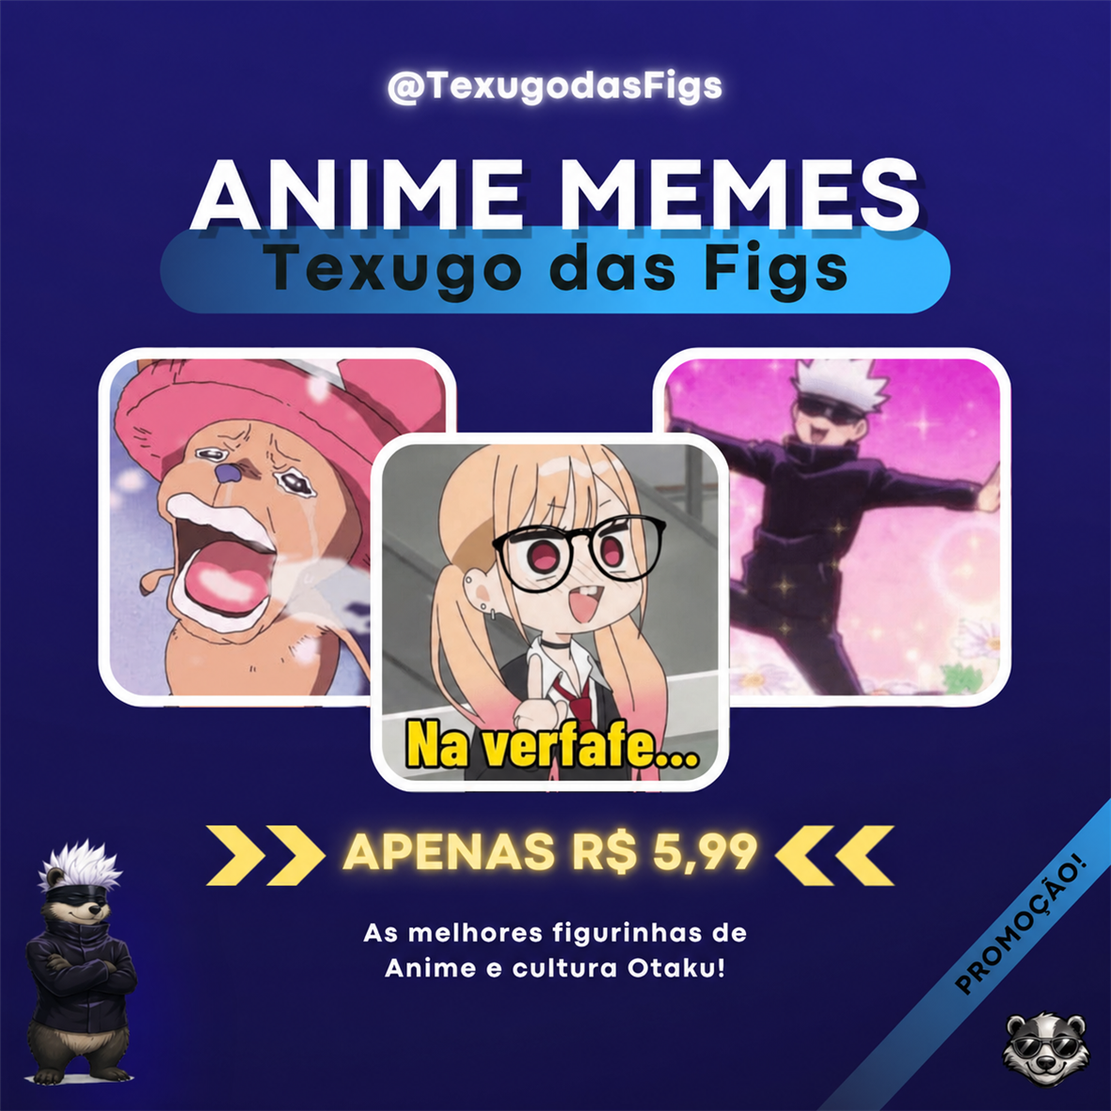
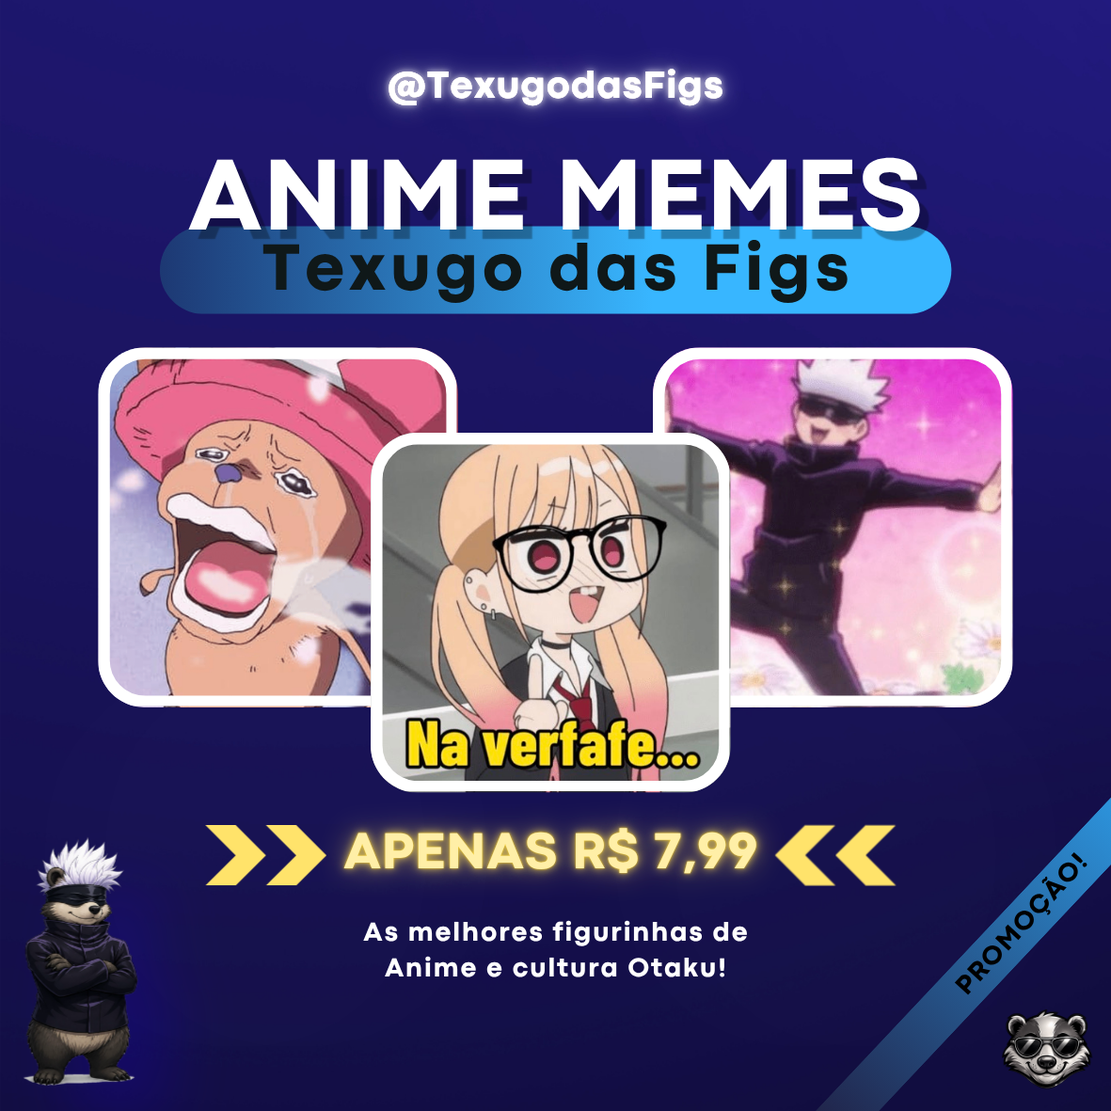
Atualiza preços, capas e quantidades dos packs

diff --git a/data.js b/data.js
@@ -9,41 +9,41 @@ window.STORE = {
     whatsapp: "https://wa.me/5588992367356?text=Ol%C3%A1%2C%20Texugo%20das%20Figs!%20Queria%20saber%20mais%20sobre%20os%20seus%20packs."
   },
   packs: [
-    {id:"premium",title:"Premium Pack",category:"premium",price:11.99,count:"Todos os packs",image:"assets/packs/03-premium.png",color:"#d5ac2e",description:"Um único pagamento que dá direito a escolher todos os packs que quiser da loja — inclusive os temas mais nichados.",longDescription:"Com o Premium Pack, você não precisa escolher apenas um tema: pelo valor único do Premium, você tem direito a solicitar todos os packs que quiser disponíveis no site. Depois do pagamento, use o botão de atendimento para abrir a conversa no WhatsApp. Você monta sua coleção com humor, reações, futebol, anime, trabalho, fandoms e outros nichos sem pagar separadamente por cada pack.",previews:["assets/previas/respostas/respostas-06.mp4","assets/previas/safadezas/safadezas-01.mp4","assets/previas/anime/anime-02.mp4","assets/previas/league-of-legends/lol-05.jpeg","assets/previas/futebol/futebol-03.jpeg"],payment:"https://mpago.la/1up4NMd"},
-    {id:"respostas",title:"Respostas e Reações",category:"humor",price:5.99,count:"+ de 60",image:"assets/packs/01-respostas.png",color:"#2bbd6e",description:"Respostas secas, reações certeiras e memes para encerrar qualquer assunto com personalidade.",longDescription:"O carro-chefe do Texugo das Figs. Uma seleção variada de respostas secas, reações engraçadas e memes para aquela mensagem que você sabe exatamente como responder, mas prefere deixar uma figurinha falar por você. Inclui opções estáticas e animadas para todos os tipos de conversa.",featuredPreview:"assets/previas/respostas/respostas-06.mp4",previews:["assets/previas/respostas/respostas-01.mp4","assets/previas/respostas/respostas-02.mp4","assets/previas/respostas/respostas-03.jpeg","assets/previas/respostas/respostas-04.jpeg","assets/previas/respostas/respostas-05.jpeg"],payment:"https://mpago.la/22gk3Nq"},
-    {id:"safadezas",title:"Safadezas",category:"humor",price:5.99,count:"+ de 60",image:"assets/packs/04-safadezas.png",mascot:"assets/emotes/safadezas-canva.png",mascotMode:"canva",color:"#8134d7",description:"Humor picante e figurinhas ousadas para conversas com intimidade e bom humor.",longDescription:"Um pack de teor mais ousado, feito para conversas adultas e bem-humoradas. Reúne cantadas picantes, respostas atrevidas e reações para apimentar o papo. Use com intimidade, responsabilidade e, claro, muita zoeira.",featuredPreview:"assets/previas/safadezas/safadezas-01.mp4",previews:["assets/previas/safadezas/safadezas-01.mp4","assets/previas/safadezas/safadezas-02.mp4","assets/previas/safadezas/safadezas-03.jpeg","assets/previas/safadezas/safadezas-04.jpeg","assets/previas/safadezas/safadezas-05.jpeg"],payment:"https://mpago.la/1XbjVzy"},
-    {id:"trabalho",title:"Trabalho",category:"lifestyle",price:5.99,count:"+ de 60",image:"assets/packs/07-trabalho.png",mascot:"assets/emotes/trabalho.jpeg",color:"#329dd5",description:"The Office, CLT e aquela dose de humor necessária para sobreviver ao expediente.",longDescription:"Feito para o grupo da firma e para quem vive a rotina CLT. Tem memes de The Office, reuniões que poderiam ser um e-mail, cobranças, atrasos e todas as pequenas alegrias e tragédias do expediente. Perfeito para reagir sem precisar escrever um relatório.",featuredPreview:"assets/previas/trabalho/trabalho-01.mp4",previews:["assets/previas/trabalho/trabalho-01.mp4","assets/previas/trabalho/trabalho-02.mp4","assets/previas/trabalho/trabalho-03.mp4","assets/previas/trabalho/trabalho-04.jpeg","assets/previas/trabalho/trabalho-05.jpeg"],payment:"https://mpago.la/1PAKBbJ"},
-    {id:"eleicoes",title:"Eleições Memes",category:"humor",price:4.99,count:"+ de 60",image:"assets/packs/10-eleicoes.png",mascot:"assets/emotes/eleicoes.jpeg",color:"#dc413e",description:"Memes de política de todos os lados para animar o grupo da família.",longDescription:"Uma coleção de memes políticos para brincar com os acontecimentos, os candidatos e as discussões que nunca acabam no grupo da família. O humor não escolhe lado: o objetivo aqui é ter a reação perfeita e render boas risadas.",featuredPreview:"assets/previas/eleicoes/eleicoes-02.mp4",previews:["assets/previas/eleicoes/eleicoes-01.mp4","assets/previas/eleicoes/eleicoes-02.mp4","assets/previas/eleicoes/eleicoes-03.jpeg","assets/previas/eleicoes/eleicoes-04.jpeg","assets/previas/eleicoes/eleicoes-05.jpeg"],payment:"https://mpago.la/17YhUo3"},
-    {id:"kpop",title:"K-Pop Memes",category:"fandoms",price:5.99,count:"+ de 60",image:"assets/packs/05-kpop.png",mascot:"assets/emotes/kpop.jpeg",color:"#a874dc",description:"Reações e memes do universo K-Pop para mandar no grupo do fandom.",longDescription:"Um pack feito para quem vive cada comeback, acompanha seus idols favoritos e sempre tem uma reação pronta no grupo do fandom. Reúne memes, expressões e momentos perfeitos para comemorar, surtar e compartilhar seu amor pelo K-Pop.",featuredPreview:"assets/previas/kpop/kpop-01.mp4",previews:["assets/previas/kpop/kpop-01.mp4","assets/previas/kpop/kpop-02.mp4","assets/previas/kpop/kpop-03.jpeg","assets/previas/kpop/kpop-04.jpeg","assets/previas/kpop/kpop-05.jpeg"],payment:"https://mpago.la/2EtabLW"},
-    {id:"futebol",title:"Futebol Memes",category:"esportes",price:5.99,count:"+ de 60",image:"assets/packs/11-futebol.png",mascot:"assets/emotes/futebol-canva.png",mascotMode:"canva",color:"#24b663",description:"As melhores reações para resenha, pelada, vitória, derrota e corneta.",longDescription:"Para o grupo da pelada e para os amigos que não perdoam um resultado ruim. Este pack reúne memes de futebol, jogadores, torcidas e aquelas reações que servem tanto para comemorar uma vitória quanto para cornetar o rival.",featuredPreview:"assets/previas/futebol/futebol-03.jpeg",previews:["assets/previas/futebol/futebol-01.mp4","assets/previas/futebol/futebol-02.mp4","assets/previas/futebol/futebol-03.jpeg","assets/previas/futebol/futebol-04.jpeg","assets/previas/futebol/futebol-05.jpeg"],payment:"https://mpago.la/1wGmW4U"},
-    {id:"divas-pop",title:"Divas Pop",category:"fandoms",price:5.99,count:"+ de 60",image:"assets/packs/06-divas-pop.png",mascot:"assets/emotes/divas-pop.jpeg",color:"#d751b8",description:"Suas cantoras pop favoritas transformadas em reações para qualquer momento.",longDescription:"As maiores divas pop reunidas em um pack cheio de personalidade. São reações icônicas, momentos dramáticos, sorrisos, lágrimas e muita atitude para você usar em qualquer conversa — principalmente quando só uma diva consegue expressar o que você está sentindo.",featuredPreview:"assets/previas/divas-pop/divas-pop-05.jpeg",previews:["assets/previas/divas-pop/divas-pop-01.mp4","assets/previas/divas-pop/divas-pop-02.mp4","assets/previas/divas-pop/divas-pop-03.mp4","assets/previas/divas-pop/divas-pop-04.jpeg","assets/previas/divas-pop/divas-pop-05.jpeg"],payment:"https://mpago.la/28M7wQ9"},
-    {id:"gym",title:"Gym Memes",category:"lifestyle",price:2.50,count:"+ de 40",image:"assets/packs/02-gym.png",mascot:"assets/emotes/gym.jpeg",color:"#aeb4b3",description:"O pack para quem treina, promete treinar ou só quer rir da vida fitness.",longDescription:"Academia, musculação, dieta e a eterna luta contra a preguiça. Este pack foi feito tanto para quem não perde um treino quanto para quem só aparece na segunda-feira. Memes fitness para compartilhar com seu parceiro de treino e transformar sofrimento em risada.",featuredPreview:"assets/previas/gym/gym-04.jpeg",previews:["assets/previas/gym/gym-01.mp4","assets/previas/gym/gym-02.jpeg","assets/previas/gym/gym-03.jpeg","assets/previas/gym/gym-04.jpeg","assets/previas/gym/gym-05.jpeg"],payment:"https://mpago.la/25NzDDm"},
-    {id:"anime",title:"Anime Memes",category:"fandoms",price:5.99,count:"+ de 60",image:"assets/packs/08-anime.png",mascot:"assets/emotes/anime.jpeg",color:"#378fd4",description:"Anime, cultura otaku e reações perfeitas para o grupo dos seus nakamas.",longDescription:"Feito para compartilhar com os amigos fãs dos desenhos japoneses. O pack mistura personagens conhecidos, momentos clássicos, reações exageradas e memes da cultura otaku para usar em qualquer situação — do episódio novo à discussão sobre o melhor anime.",featuredPreview:"assets/previas/anime/anime-02.mp4",previews:["assets/previas/anime/anime-01.mp4","assets/previas/anime/anime-02.mp4","assets/previas/anime/anime-03.mp4","assets/previas/anime/anime-04.jpeg","assets/previas/anime/anime-05.jpeg"],payment:"https://mpago.la/2SEfHpp"},
-    {id:"cantadas",title:"Cantadas Enfadonhas",category:"humor",price:5.99,count:"+ de 60",image:"assets/packs/12-cantadas.png",mascot:"assets/emotes/cantadas.jpeg",color:"#e86580",description:"Cantadas ruins o bastante para funcionar — ou pelo menos render uma boa risada.",longDescription:"Figurinhas românticas de gêneros variados, misturando cantadas engraçadas, declarações exageradas e reações para quem está apaixonado. Talvez você não conquiste o crush de primeira, mas certamente vai conseguir começar uma conversa.",featuredPreview:"assets/previas/cantadas/cantadas-05.jpeg",previews:["assets/previas/cantadas/cantadas-01.mp4","assets/previas/cantadas/cantadas-02.mp4","assets/previas/cantadas/cantadas-03.jpeg","assets/previas/cantadas/cantadas-04.jpeg","assets/previas/cantadas/cantadas-05.jpeg"],payment:"https://mpago.la/1Gpmr6e"},
-    {id:"league-of-legends",title:"League of Legends",category:"games",price:5.99,count:"+ de 60",image:"assets/packs/09-lol.png",mascot:"assets/emotes/lol.jpeg",color:"#374cb7",description:"Para comemorar a vitória, lamentar o feed e reagir como um verdadeiro invocador.",longDescription:"Um pack para quem conhece a alegria de uma vitória e a tristeza profunda de uma sequência de derrotas. Campeões, jogadores, jogadas duvidosas e reações para usar antes, durante e depois da partida — especialmente quando alguém culpa o jungler.",featuredPreview:"assets/previas/league-of-legends/lol-05.jpeg",previews:["assets/previas/league-of-legends/lol-01.mp4","assets/previas/league-of-legends/lol-02.mp4","assets/previas/league-of-legends/lol-03.jpeg","assets/previas/league-of-legends/lol-04.jpeg","assets/previas/league-of-legends/lol-05.jpeg"],payment:"https://mpago.la/2KBVoNj"}
+    {id:"premium",title:"Premium Pack",category:"premium",price:15.99,count:"+ de 660",image:"assets/packs/03-premium.png",color:"#d5ac2e",description:"Um único pagamento que dá direito a escolher todos os packs que quiser da loja — inclusive os temas mais nichados.",longDescription:"Com o Premium Pack, você não precisa escolher apenas um tema: pelo valor único do Premium, você tem direito a solicitar todos os packs que quiser disponíveis no site. Depois do pagamento, use o botão de atendimento para abrir a conversa no WhatsApp. Você monta sua coleção com humor, reações, futebol, anime, trabalho, fandoms e outros nichos sem pagar separadamente por cada pack.",previews:["assets/previas/respostas/respostas-06.mp4","assets/previas/safadezas/safadezas-01.mp4","assets/previas/anime/anime-02.mp4","assets/previas/league-of-legends/lol-05.jpeg","assets/previas/futebol/futebol-03.jpeg"],payment:"https://mpago.la/1up4NMd"},
+    {id:"respostas",title:"Respostas e Reações",category:"humor",price:7.99,count:"+ de 75",image:"assets/packs/01-respostas.png",color:"#2bbd6e",description:"Respostas secas, reações certeiras e memes para encerrar qualquer assunto com personalidade.",longDescription:"O carro-chefe do Texugo das Figs. Uma seleção variada de respostas secas, reações engraçadas e memes para aquela mensagem que você sabe exatamente como responder, mas prefere deixar uma figurinha falar por você. Inclui opções estáticas e animadas para todos os tipos de conversa.",featuredPreview:"assets/previas/respostas/respostas-06.mp4",previews:["assets/previas/respostas/respostas-01.mp4","assets/previas/respostas/respostas-02.mp4","assets/previas/respostas/respostas-03.jpeg","assets/previas/respostas/respostas-04.jpeg","assets/previas/respostas/respostas-05.jpeg"],payment:"https://mpago.la/22gk3Nq"},
+    {id:"safadezas",title:"Safadezas",category:"humor",price:7.99,count:"+ de 65",image:"assets/packs/04-safadezas.png",mascot:"assets/emotes/safadezas-canva.png",mascotMode:"canva",color:"#8134d7",description:"Humor picante e figurinhas ousadas para conversas com intimidade e bom humor.",longDescription:"Um pack de teor mais ousado, feito para conversas adultas e bem-humoradas. Reúne cantadas picantes, respostas atrevidas e reações para apimentar o papo. Use com intimidade, responsabilidade e, claro, muita zoeira.",featuredPreview:"assets/previas/safadezas/safadezas-01.mp4",previews:["assets/previas/safadezas/safadezas-01.mp4","assets/previas/safadezas/safadezas-02.mp4","assets/previas/safadezas/safadezas-03.jpeg","assets/previas/safadezas/safadezas-04.jpeg","assets/previas/safadezas/safadezas-05.jpeg"],payment:"https://mpago.la/1XbjVzy"},
+    {id:"trabalho",title:"Trabalho",category:"lifestyle",price:7.99,count:"+ de 60",image:"assets/packs/07-trabalho.png",mascot:"assets/emotes/trabalho.jpeg",color:"#329dd5",description:"The Office, CLT e aquela dose de humor necessária para sobreviver ao expediente.",longDescription:"Feito para o grupo da firma e para quem vive a rotina CLT. Tem memes de The Office, reuniões que poderiam ser um e-mail, cobranças, atrasos e todas as pequenas alegrias e tragédias do expediente. Perfeito para reagir sem precisar escrever um relatório.",featuredPreview:"assets/previas/trabalho/trabalho-01.mp4",previews:["assets/previas/trabalho/trabalho-01.mp4","assets/previas/trabalho/trabalho-02.mp4","assets/previas/trabalho/trabalho-03.mp4","assets/previas/trabalho/trabalho-04.jpeg","assets/previas/trabalho/trabalho-05.jpeg"],payment:"https://mpago.la/1PAKBbJ"},
+    {id:"eleicoes",title:"Eleições Memes",category:"humor",price:6.99,count:"+ de 60",image:"assets/packs/10-eleicoes.png",mascot:"assets/emotes/eleicoes.jpeg",color:"#dc413e",description:"Memes de política de todos os lados para animar o grupo da família.",longDescription:"Uma coleção de memes políticos para brincar com os acontecimentos, os candidatos e as discussões que nunca acabam no grupo da família. O humor não escolhe lado: o objetivo aqui é ter a reação perfeita e render boas risadas.",featuredPreview:"assets/previas/eleicoes/eleicoes-02.mp4",previews:["assets/previas/eleicoes/eleicoes-01.mp4","assets/previas/eleicoes/eleicoes-02.mp4","assets/previas/eleicoes/eleicoes-03.jpeg","assets/previas/eleicoes/eleicoes-04.jpeg","assets/previas/eleicoes/eleicoes-05.jpeg"],payment:"https://mpago.la/17YhUo3"},
+    {id:"kpop",title:"K-Pop Memes",category:"fandoms",price:7.99,count:"+ de 60",image:"assets/packs/05-kpop.png",mascot:"assets/emotes/kpop.jpeg",color:"#a874dc",description:"Reações e memes do universo K-Pop para mandar no grupo do fandom.",longDescription:"Um pack feito para quem vive cada comeback, acompanha seus idols favoritos e sempre tem uma reação pronta no grupo do fandom. Reúne memes, expressões e momentos perfeitos para comemorar, surtar e compartilhar seu amor pelo K-Pop.",featuredPreview:"assets/previas/kpop/kpop-01.mp4",previews:["assets/previas/kpop/kpop-01.mp4","assets/previas/kpop/kpop-02.mp4","assets/previas/kpop/kpop-03.jpeg","assets/previas/kpop/kpop-04.jpeg","assets/previas/kpop/kpop-05.jpeg"],payment:"https://mpago.la/2EtabLW"},
+    {id:"futebol",title:"Futebol Memes",category:"esportes",price:7.99,count:"+ de 60",image:"assets/packs/11-futebol.png",mascot:"assets/emotes/futebol-canva.png",mascotMode:"canva",color:"#24b663",description:"As melhores reações para resenha, pelada, vitória, derrota e corneta.",longDescription:"Para o grupo da pelada e para os amigos que não perdoam um resultado ruim. Este pack reúne memes de futebol, jogadores, torcidas e aquelas reações que servem tanto para comemorar uma vitória quanto para cornetar o rival.",featuredPreview:"assets/previas/futebol/futebol-03.jpeg",previews:["assets/previas/futebol/futebol-01.mp4","assets/previas/futebol/futebol-02.mp4","assets/previas/futebol/futebol-03.jpeg","assets/previas/futebol/futebol-04.jpeg","assets/previas/futebol/futebol-05.jpeg"],payment:"https://mpago.la/1wGmW4U"},
+    {id:"divas-pop",title:"Divas Pop",category:"fandoms",price:7.99,count:"+ de 60",image:"assets/packs/06-divas-pop.png",mascot:"assets/emotes/divas-pop.jpeg",color:"#d751b8",description:"Suas cantoras pop favoritas transformadas em reações para qualquer momento.",longDescription:"As maiores divas pop reunidas em um pack cheio de personalidade. São reações icônicas, momentos dramáticos, sorrisos, lágrimas e muita atitude para você usar em qualquer conversa — principalmente quando só uma diva consegue expressar o que você está sentindo.",featuredPreview:"assets/previas/divas-pop/divas-pop-05.jpeg",previews:["assets/previas/divas-pop/divas-pop-01.mp4","assets/previas/divas-pop/divas-pop-02.mp4","assets/previas/divas-pop/divas-pop-03.mp4","assets/previas/divas-pop/divas-pop-04.jpeg","assets/previas/divas-pop/divas-pop-05.jpeg"],payment:"https://mpago.la/28M7wQ9"},
+    {id:"gym",title:"Gym Memes",category:"lifestyle",price:3.99,count:"+ de 40",image:"assets/packs/02-gym.png",mascot:"assets/emotes/gym.jpeg",color:"#aeb4b3",description:"O pack para quem treina, promete treinar ou só quer rir da vida fitness.",longDescription:"Academia, musculação, dieta e a eterna luta contra a preguiça. Este pack foi feito tanto para quem não perde um treino quanto para quem só aparece na segunda-feira. Memes fitness para compartilhar com seu parceiro de treino e transformar sofrimento em risada.",featuredPreview:"assets/previas/gym/gym-04.jpeg",previews:["assets/previas/gym/gym-01.mp4","assets/previas/gym/gym-02.jpeg","assets/previas/gym/gym-03.jpeg","assets/previas/gym/gym-04.jpeg","assets/previas/gym/gym-05.jpeg"],payment:"https://mpago.la/25NzDDm"},
+    {id:"anime",title:"Anime Memes",category:"fandoms",price:7.99,count:"+ de 60",image:"assets/packs/08-anime.png",mascot:"assets/emotes/anime.jpeg",color:"#378fd4",description:"Anime, cultura otaku e reações perfeitas para o grupo dos seus nakamas.",longDescription:"Feito para compartilhar com os amigos fãs dos desenhos japoneses. O pack mistura personagens conhecidos, momentos clássicos, reações exageradas e memes da cultura otaku para usar em qualquer situação — do episódio novo à discussão sobre o melhor anime.",featuredPreview:"assets/previas/anime/anime-02.mp4",previews:["assets/previas/anime/anime-01.mp4","assets/previas/anime/anime-02.mp4","assets/previas/anime/anime-03.mp4","assets/previas/anime/anime-04.jpeg","assets/previas/anime/anime-05.jpeg"],payment:"https://mpago.la/2SEfHpp"},
+    {id:"cantadas",title:"Cantadas Enfadonhas",category:"humor",price:7.99,count:"+ de 60",image:"assets/packs/12-cantadas.png",mascot:"assets/emotes/cantadas.jpeg",color:"#e86580",description:"Cantadas ruins o bastante para funcionar — ou pelo menos render uma boa risada.",longDescription:"Figurinhas românticas de gêneros variados, misturando cantadas engraçadas, declarações exageradas e reações para quem está apaixonado. Talvez você não conquiste o crush de primeira, mas certamente vai conseguir começar uma conversa.",featuredPreview:"assets/previas/cantadas/cantadas-05.jpeg",previews:["assets/previas/cantadas/cantadas-01.mp4","assets/previas/cantadas/cantadas-02.mp4","assets/previas/cantadas/cantadas-03.jpeg","assets/previas/cantadas/cantadas-04.jpeg","assets/previas/cantadas/cantadas-05.jpeg"],payment:"https://mpago.la/1Gpmr6e"},
+    {id:"league-of-legends",title:"League of Legends",category:"games",price:7.99,count:"+ de 60",image:"assets/packs/09-lol.png",mascot:"assets/emotes/lol.jpeg",color:"#374cb7",description:"Para comemorar a vitória, lamentar o feed e reagir como um verdadeiro invocador.",longDescription:"Um pack para quem conhece a alegria de uma vitória e a tristeza profunda de uma sequência de derrotas. Campeões, jogadores, jogadas duvidosas e reações para usar antes, durante e depois da partida — especialmente quando alguém culpa o jungler.",featuredPreview:"assets/previas/league-of-legends/lol-05.jpeg",previews:["assets/previas/league-of-legends/lol-01.mp4","assets/previas/league-of-legends/lol-02.mp4","assets/previas/league-of-legends/lol-03.jpeg","assets/previas/league-of-legends/lol-04.jpeg","assets/previas/league-of-legends/lol-05.jpeg"],payment:"https://mpago.la/2KBVoNj"}
   ]
 };
 
 // Preços exibidos na loja. Gym e Eleições mantêm seus valores promocionais próprios.
 const currentPrices = {
-  premium: 11.99,
-  respostas: 5.99,
-  safadezas: 5.99,
-  trabalho: 5.99,
-  eleicoes: 4.99,
-  kpop: 5.99,
-  futebol: 5.99,
-  "divas-pop": 5.99,
-  gym: 2.50,
-  anime: 5.99,
-  cantadas: 5.99,
-  "league-of-legends": 5.99
+  premium: 15.99,
+  respostas: 7.99,
+  safadezas: 7.99,
+  trabalho: 7.99,
+  eleicoes: 6.99,
+  kpop: 7.99,
+  futebol: 7.99,
+  "divas-pop": 7.99,
+  gym: 3.99,
+  anime: 7.99,
+  cantadas: 7.99,
+  "league-of-legends": 7.99
 };
 
 window.STORE.packs.forEach(pack => {
   pack.price = currentPrices[pack.id];
   if (pack.id === "premium") {
-    pack.count = "Todos os packs";
+    pack.count = "+ de 660";
     pack.description = "Um único pagamento que dá direito a escolher todos os packs que quiser da loja — inclusive os temas mais nichados.";
     pack.longDescription = "Com o Premium Pack, você não precisa escolher apenas um tema: pelo valor único do Premium, você tem direito a solicitar todos os packs que quiser disponíveis no site. Depois do pagamento, use o botão de atendimento para abrir a conversa no WhatsApp. Você monta sua coleção com humor, reações, futebol, anime, trabalho, fandoms e outros nichos sem pagar separadamente por cada pack.";
   }

diff --git a/index.html b/index.html
@@ -30,7 +30,7 @@
         <h1>Figurinhas que <em>falam por você.</em></h1>
         <p>Respostas, memes e reações para todos os momentos. Escolha seu pack, pague com segurança e receba as figurinhas diretamente no seu WhatsApp.</p>
         <div class="hero-actions"><a class="button primary" href="#packs">Escolher meu pack</a><a class="button ghost" href="#previas">Ver prévias</a><a class="button whatsapp-quick" data-whatsapp-receipt href="#">Já comprei — receber no WhatsApp</a></div>
-        <div class="hero-stats"><div><b>+640</b><span>figurinhas no acervo</span></div><div><b>12</b><span>packs temáticos</span></div><div><b>1x</b><span>pagamento único</span></div></div>
+        <div class="hero-stats"><div><b>+660</b><span>figurinhas no acervo</span></div><div><b>12</b><span>packs temáticos</span></div><div><b>1x</b><span>pagamento único</span></div></div>
       </div>
       <div class="hero-art"><div class="glow"></div><img class="brand-logo-main" src="assets/logo-principal.jpeg" alt="Logo Texugo das Figs"></div>
     </section>
@@ -79,7 +79,7 @@
 
     <section class="premium-section" id="premium">
       <div class="premium-image"><img src="assets/packs/03-premium.png" alt="Capa do Premium Pack"><span>MAIS VENDIDO</span></div>
-      <div class="premium-copy"><span class="eyebrow gold-text">O MELHOR CUSTO-BENEFÍCIO</span><h2>Escolha todos os packs<br>que quiser.</h2><p>Pague uma única vez e tenha direito a solicitar todos os packs que quiser da loja — dos favoritos aos temas mais nichados. Depois, abra a mensagem pronta do Premium no WhatsApp para receber sua coleção.</p><div class="premium-metric"><b>12</b><span>packs disponíveis para você escolher</span></div><ul><li>Direito a todos os packs que quiser</li><li>Entrega pelo WhatsApp</li><li>Acesso vitalício</li><li>Pagamento único</li></ul><div class="premium-buy"><strong>R$ 11,99</strong><div class="premium-actions"><button class="button gold" data-buy="premium">Quero o Premium</button><a class="whatsapp-text-link" data-whatsapp-premium href="#">Já paguei — receber no WhatsApp ↗</a></div></div></div>
+        <div class="premium-copy"><span class="eyebrow gold-text">O MELHOR CUSTO-BENEFÍCIO</span><h2>Escolha todos os packs<br>que quiser.</h2><p>Pague uma única vez e tenha direito a solicitar todos os packs que quiser da loja — dos favoritos aos temas mais nichados. Depois, abra a mensagem pronta do Premium no WhatsApp para receber sua coleção.</p><div class="premium-metric"><b>12</b><span>packs disponíveis para você escolher</span></div><ul><li>Direito a todos os packs que quiser</li><li>Entrega pelo WhatsApp</li><li>Acesso vitalício</li><li>Pagamento único</li></ul><div class="premium-buy"><strong>R$ 15,99</strong><div class="premium-actions"><button class="button gold" data-buy="premium">Quero o Premium</button><a class="whatsapp-text-link" data-whatsapp-premium href="#">Já paguei — receber no WhatsApp ↗</a></div></div></div>
     </section>
 
     <section class="custom-banner" id="personalizadas">

diff --git a/app.js b/app.js
@@ -7,7 +7,10 @@ window.addEventListener('pageshow',resetPageToTop,{once:true});
 const store=window.STORE;
 const packOrder=['premium','respostas','safadezas','anime','eleicoes','kpop','league-of-legends','divas-pop','gym','futebol','cantadas','trabalho'];
 store.packs.sort((a,b)=>packOrder.indexOf(a.id)-packOrder.indexOf(b.id));
-store.packs.forEach(pack=>{pack.count=pack.id==='premium'?'Todos os packs':pack.id==='gym'?'+ de 40':'+ de 60'});
+store.packs.forEach(pack=>{
+  const counts={premium:'+ de 660',respostas:'+ de 75',safadezas:'+ de 65',gym:'+ de 40'};
+  pack.count=counts[pack.id]||'+ de 60';
+});
 const packs=store.packs;
 const badges={premium:'Acervo completo',respostas:'Mais vendido',safadezas:'Ousado',trabalho:'Popular agora',eleicoes:'Em alta',kpop:'Favorito',futebol:'Paixão nacional','divas-pop':'Icônico',gym:'Oferta',anime:'Otaku','league-of-legends':'Gamer',cantadas:'Para o crush'};
 const headlines={
